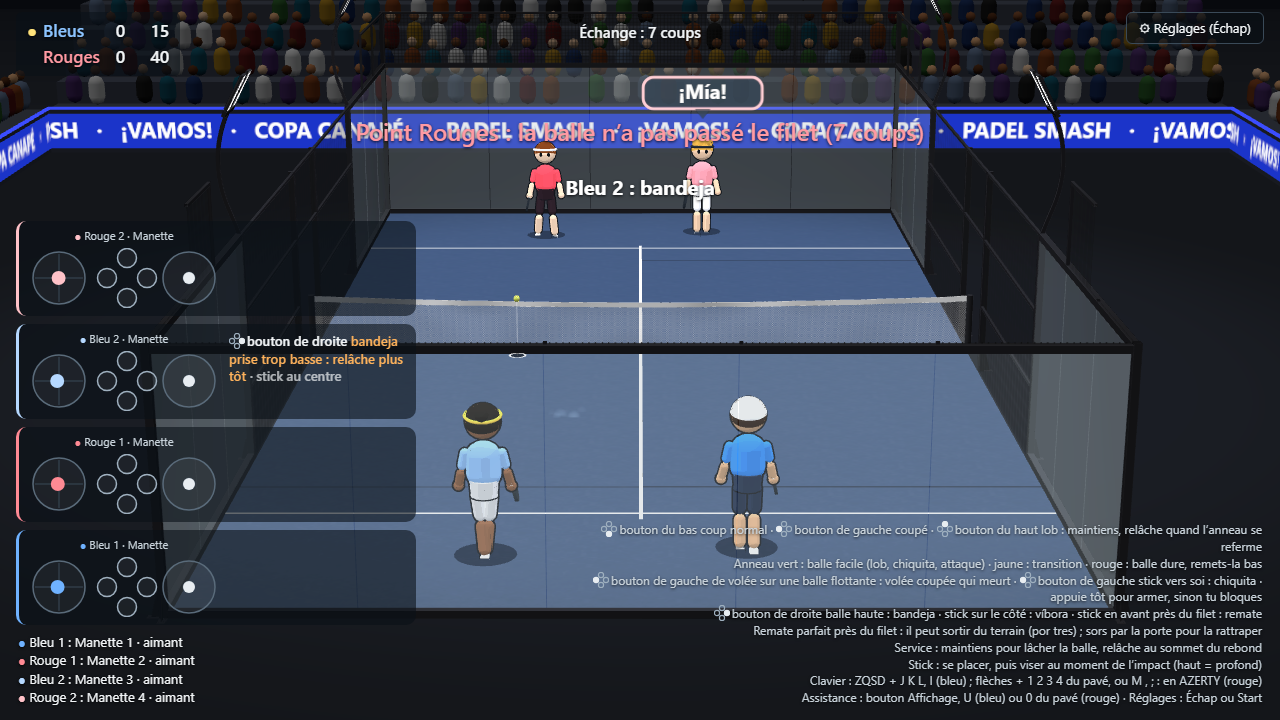
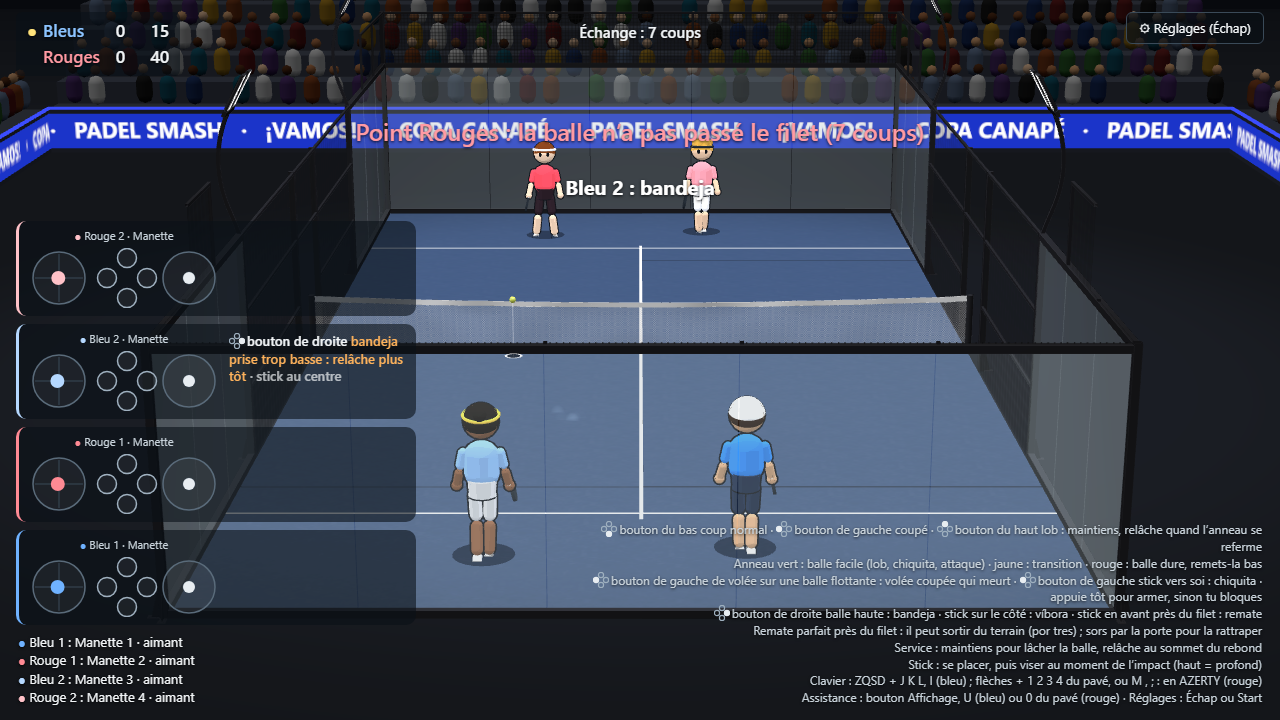
Éclat de frappe discret, plus de voix d'arbitre ni de bulles ¡Mía!
Retours de Xavier : l'éclat à l'impact de la raquette était trop gros (petit
anneau fin sur un coup normal, étoile réservée à la frappe parfaite et au
smash), la voix de l'arbitre est retirée, les bulles d'annonce sont masquées
(?bulles=1 pour les remettre).

diff --git a/src/audio/announcer.ts b/src/audio/announcer.ts
@@ -1,40 +1,12 @@
-import type { PointOutcome, Match } from '../sim/score';
 import type { Voice } from './recipes';
 
 /**
- * Arbitre et joueurs qui parlent (étape E7) : annonce du score en espagnol, comme sur le circuit, et « ¡Vamos! » du
- * gagnant d'un grand point. Synthèse vocale du navigateur (voix espagnole si elle existe) : gratuite, mais d'une
- * qualité qui dépend du système. `?voix=0` la coupe.
+ * Joueurs qui parlent (étape E7) : « ¡Vamos! » du gagnant d'un grand point. Synthèse vocale du navigateur (voix
+ * espagnole si elle existe) : gratuite, mais d'une qualité qui dépend du système. `?voix=0` la coupe. L'annonce du
+ * score par l'arbitre a été retirée à la demande de Xavier.
  */
-
-const SPANISH = ['nada', 'quince', 'treinta', 'cuarenta'] as const;
-
-/**
- * Annonce de l'arbitre après un point, le score du serveur d'abord : « Quince nada », « Treinta iguales », « Iguales »,
- * « Ventaja », « Punto de oro », « Juego », « Juego y set », « Juego, set y partido ». En jeu décisif : « Tres dos ».
- */
-export function scoreCall(match: Match, outcome: PointOutcome | null): string | null {
-  if (outcome?.match) return 'Juego, set y partido';
-  if (outcome?.set) return 'Juego y set';
-  if (outcome?.game) return 'Juego';
-  const server = match.server;
-  const mine = match.points[server];
-  const theirs = match.points[server === 0 ? 1 : 0];
-  if (match.tiebreak) return `${number(mine)} ${number(theirs)}`;
-  if (match.decidingPoint) return 'Punto de oro';
-  if (mine >= 3 && theirs >= 3) return mine === theirs ? 'Iguales' : 'Ventaja';
-  if (mine === theirs) return `${SPANISH[mine]!} iguales`.replace(/^./, (c) => c.toUpperCase());
-  return `${SPANISH[mine]!} ${SPANISH[theirs]!}`.replace(/^./, (c) => c.toUpperCase());
-}
-
-const NUMBERS = ['cero', 'uno', 'dos', 'tres', 'cuatro', 'cinco', 'seis', 'siete', 'ocho', 'nueve', 'diez', 'once', 'doce'];
-function number(n: number): string {
-  return NUMBERS[n] ?? String(n);
-}
 
 export interface Announcer {
-  /** Annonce de l'arbitre, voix posée. */
-  score(text: string): void;
   /** Cri d'un joueur. */
   shout(text: string, voice: Voice): void;
 }
@@ -61,9 +33,6 @@ export function createAnnouncer(): Announcer {
     synth.speak(utterance);
   };
   return {
-    score(text): void {
-      say(text, 0.95, 1.0, 0.8, false);
-    },
     shout(text, voice): void {
       // Le cri passe devant l'annonce en attente.
       say(text, voice.speech, 1.25, 1, true);

diff --git a/src/render/effects.ts b/src/render/effects.ts
@@ -106,7 +106,11 @@ export const EFFECT_COLORS = {
   surround: 0x9aa1aa,
 } as const;
 
-/** Allure de l'éclat de frappe : doré et plus gros si parfaite, plus marqué sur un smash, un peu plus grand si la balle part vite. */
+/**
+ * Allure de l'éclat de frappe : doré et plus gros si parfaite, plus marqué sur un smash, un peu plus grand si la balle
+ * part vite. Discret (retour de Xavier : trop gros et agressif) : un petit anneau bref sur un coup normal, l'étoile et
+ * les étincelles seulement sur une frappe parfaite ou un smash.
+ */
 export function impactLook(shot: { perfect: boolean; overhead: OverheadKind | null; speed: number }): {
   life: number;
   size: number;
@@ -117,11 +121,11 @@ export function impactLook(shot: { perfect: boolean; overhead: OverheadKind | nu
   const smash = shot.overhead === 'remate';
   const fast = 0.85 + 0.3 * clamp01(shot.speed / 30);
   return {
-    life: (shot.perfect ? 0.3 : 0.2) + (smash ? 0.08 : 0),
-    size: (shot.perfect ? 0.5 : 0.3) * (smash ? 1.4 : 1) * fast,
+    life: (shot.perfect ? 0.22 : 0.14) + (smash ? 0.05 : 0),
+    size: (shot.perfect ? 0.26 : 0.14) * (smash ? 1.3 : 1) * fast,
     color: shot.perfect ? EFFECT_COLORS.perfect : EFFECT_COLORS.normal,
-    strength: shot.perfect ? 1 : smash ? 0.85 : 0.6,
-    sparks: (shot.perfect ? 10 : 4) + (smash ? 6 : 0),
+    strength: shot.perfect ? 0.7 : smash ? 0.55 : 0.3,
+    sparks: (shot.perfect ? 5 : 0) + (smash ? 3 : 0),
   };
 }
 
@@ -240,7 +244,7 @@ export class Effects {
   impact(at: { x: number; y: number; z: number }, shot: { perfect: boolean; overhead: OverheadKind | null; speed: number }): void {
     const look = impactLook(shot);
     const e = this.spawn('impact', at.x, at.y, at.z, look.life, look.size, look.color, look.strength);
-    e.star = true;
+    e.star = shot.perfect || shot.overhead === 'remate';
     for (let i = 0; i < look.sparks; i++) {
       // Étincelles projetées dans toutes les directions, plus vite sur une frappe forte.
       const theta = this.random() * Math.PI * 2;
@@ -249,7 +253,7 @@ export class Effects {
       const speed = (1.5 + 2.5 * this.random()) * (0.6 + look.strength);
       this.particle(at.x, at.y, at.z, Math.cos(theta) * flat * speed, up * speed, Math.sin(theta) * flat * speed, {
         life: 0.18 + 0.14 * this.random(),
-        size: 0.035 + 0.03 * look.strength,
+        size: 0.025 + 0.02 * look.strength,
         color: look.color,
         gravity: 6,
         drag: 4,

diff --git a/tests/audio/e7.test.ts b/tests/audio/e7.test.ts
@@ -1,8 +1,6 @@
 import { describe, expect, it } from 'vitest';
-import { scoreCall } from '../../src/audio/announcer';
 import { gruntRecipe, shotPower, squeakRecipe, SqueakDetector, VOICES } from '../../src/audio/recipes';
 import { SIM_DT } from '../../src/sim/constants';
-import { Match } from '../../src/sim/score';
 import { vec3, type Vec3 } from '../../src/sim/vec3';
 
 describe('crissements de semelles', () => {
@@ -48,29 +46,5 @@ describe('souffle à la frappe', () => {
     expect(gruntRecipe(vec3(0, 1, -8), 0.2, VOICES[0]!)).toBeNull();
     const pitches = VOICES.map((v) => JSON.stringify(gruntRecipe(vec3(0, 1, -8), 1, v)!.layers));
     expect(new Set(pitches).size).toBe(VOICES.length);
-  });
-});
-
-describe('annonce du score par l’arbitre', () => {
-  const after = (points: (0 | 1)[], goldenPoint = false) => {
-    const match = new Match({ setsToWin: 1, gamesPerSet: 6, goldenPoint });
-    let outcome = null;
-    for (const p of points) outcome = match.awardPoint(p);
-    return scoreCall(match, outcome);
-  };
-
-  it('le score du serveur d’abord, en espagnol', () => {
-    expect(after([0])).toBe('Quince nada');
-    expect(after([1])).toBe('Nada quince');
-    expect(after([0, 1])).toBe('Quince iguales');
-    expect(after([0, 0, 1])).toBe('Treinta quince');
-    expect(after([0, 0, 0, 1, 1, 1])).toBe('Iguales');
-    expect(after([0, 0, 0, 1, 1, 1, 0])).toBe('Ventaja');
-  });
-
-  it('punto de oro, jeu, set', () => {
-    expect(after([0, 0, 0, 1, 1, 1], true)).toBe('Punto de oro');
-    expect(after([0, 0, 0, 0])).toBe('Juego');
-    expect(after(Array.from({ length: 24 }, () => 0 as const))).toBe('Juego, set y partido');
   });
 });

diff --git a/src/render/duelScene.ts b/src/render/duelScene.ts
@@ -33,6 +33,8 @@ export const PARTNER_COLORS = [0x8fc3ff, 0xff9ea8] as const;
 /** Durée d'affichage d'une annonce entre partenaires (s), et son texte. */
 const CALL_TIME = 1;
 const CALL_TEXT: Record<CallKind, string> = { mia: '¡Mía!', tuya: '¡Tuya!' };
+/** Bulles « ¡Mía! / ¡Tuya! » masquées pour l'instant (trop grosses, elles gênaient : retour de Xavier) ; `?bulles=1` les remet. */
+const SHOW_CALLS = new URLSearchParams(location.search).get('bulles') === '1';
 
 /**
  * Caméra de retransmission télé, derrière le joueur du camp Z négatif (GAME_DESIGN.md §8) : téléobjectif
@@ -429,7 +431,7 @@ export function createDuelView(canvas: HTMLCanvasElement, duel: Duel): DuelView 
     const pos = lerp(player.prevPos, player.pos, alpha);
     view.object.position.set(pos.x, 0, pos.z);
     // Annonce entre partenaires, au-dessus de la tête pendant un court instant.
-    const call = player.call && (duel.tick - player.call.tick) * SIM_DT < CALL_TIME ? player.call.kind : null;
+    const call = SHOW_CALLS && player.call && (duel.tick - player.call.tick) * SIM_DT < CALL_TIME ? player.call.kind : null;
     view.bubble.visible = call !== null;
     if (call) {
       if (view.bubbleKind !== call) {

diff --git a/src/modes/duel.ts b/src/modes/duel.ts
@@ -1,4 +1,4 @@
-import { createAnnouncer, scoreCall } from '../audio/announcer';
+import { createAnnouncer } from '../audio/announcer';
 import { shotPower, SqueakDetector, stepCrowdReactions, VOICES } from '../audio/recipes';
 import { CrowdMood } from '../render/arena';
 import { createSounds } from '../audio/sounds';
@@ -166,11 +166,6 @@ export function startDuel(canvas: HTMLCanvasElement): void {
         const shouter = winners.reduce((a, b) => (duel.players[b]!.lastHitTick > duel.players[a]!.lastHitTick ? b : a));
         setTimeout(() => announcer.shout('¡Vamos!', VOICES[shouter % VOICES.length]!), 150);
       }
-    }
-    if (duel.result && duel.match && settings.sound) {
-      // L'arbitre annonce le score une fois le point retombé.
-      const call = scoreCall(duel.match, duel.lastOutcome);
-      if (call) setTimeout(() => announcer.score(call), 1000);
     }
     if (duel.shot) {
       const { shot } = duel;

diff --git a/STATUS.md b/STATUS.md
@@ -672,3 +672,15 @@ inchangé. **Pas encore écouté à la manette** : niveaux mesurés hors ligne s
   et 0,03 en pleine clameur.
 - `stepCrowdReactions` (recettes) : réactions du public au dernier pas, partagées par le son et la foule (E6).
 - Pas fait : pas de course, glissade, son de la porte, musique de menu (il n'y a pas encore de menu d'accueil).
+
+### Retour de Xavier sur E3, E6, E7 (18/10/2026)
+
+Arène : « très bien », rien à changer. 476 tests OK, typecheck OK, tests navigateur des effets, du double et des sons OK.
+
+- **Éclat de frappe plus discret** (« trop gros et agressif ») : sur un coup normal, seulement un petit anneau fin
+  (taille 0,14 au lieu de 0,30, 0,14 s, intensité moitié), sans étoile ni étincelles ; l'étoile et quelques
+  étincelles plus fines restent pour la frappe parfaite (dorée, plus petite qu'avant) et le smash. Les autres effets
+  (vitre, sol, grillage, por tres) ne changent pas.
+- **Voix de l'arbitre retirée** (annonce du score) ; le « ¡Vamos! » du gagnant d'un grand point reste (`?voix=0`).
+- **Bulles « ¡Mía! / ¡Tuya! » masquées** pour l'instant (trop grosses, elles gênaient) ; `?bulles=1` les remet.
+  Les annonces existent toujours dans la simulation et l'IA s'en sert.
